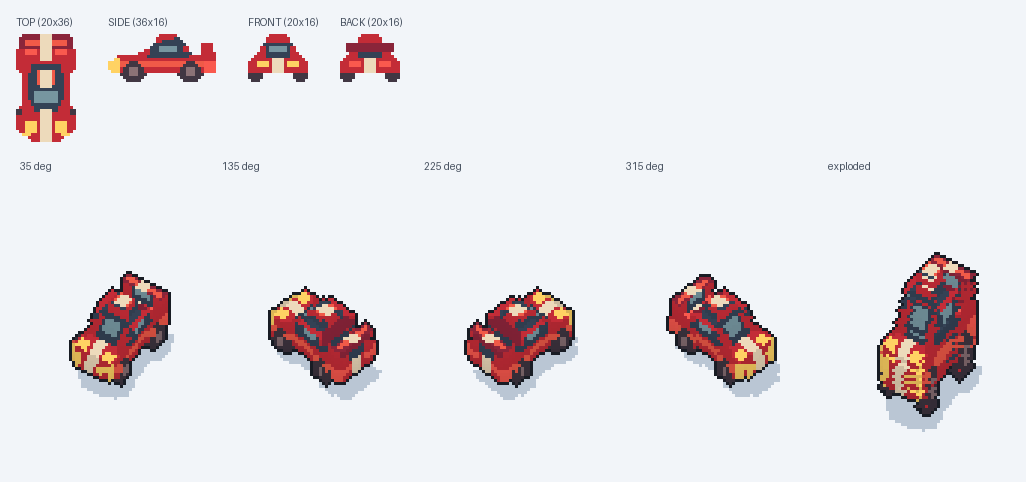
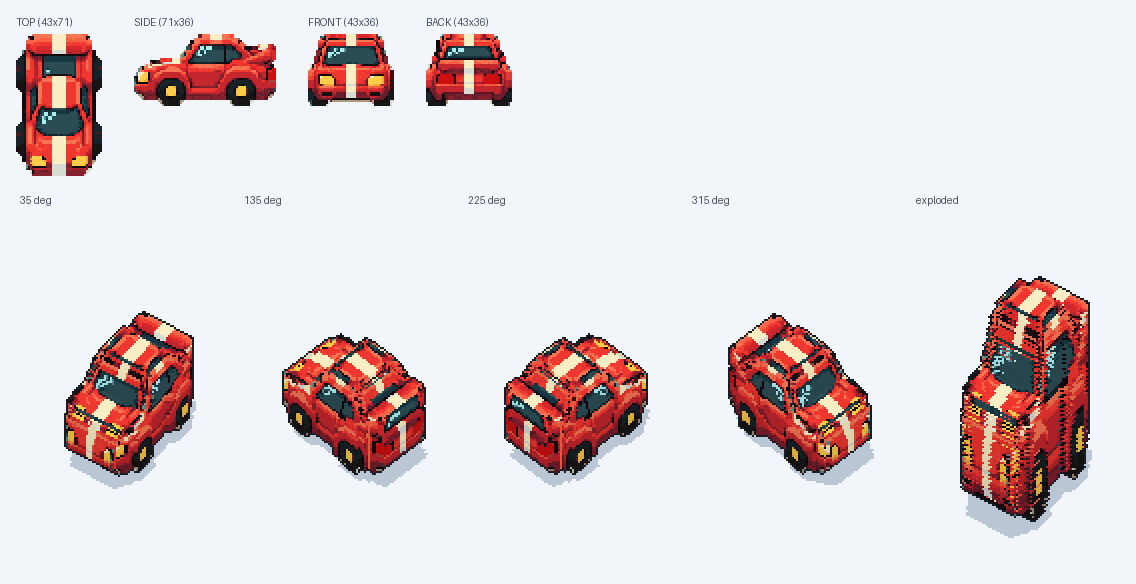
Use Hero Car A with a placeholder fallback

diff --git a/src/render/assets.test.ts b/src/render/assets.test.ts
@@ -1,8 +1,49 @@
-import { describe, expect, it } from 'vitest'
-import { validateEntry, validateStrip } from './assets'
+import { afterEach, describe, expect, it, vi } from 'vitest'
+import { assetIds, loadAssets, validateEntry, validateStrip } from './assets'
 import { carTurn } from './stack'
 
 const entry = { slices: 16, sliceWidth: 20, sliceHeight: 36, source: 'art/placeholders/car.png' }
+
+describe('car loading', () => {
+  afterEach(() => {
+    vi.unstubAllGlobals()
+    vi.restoreAllMocks()
+  })
+
+  it.each(['invalid manifest entry', 'missing strip', 'wrong strip dimensions'])('uses the placeholder for a %s', async failure => {
+    const fallback = { slices: 1, sliceWidth: 1, sliceHeight: 1, source: 'art/placeholders/car.png' }
+    const hero = { ...fallback, source: 'art/handoff/hero_car_a_fourview.png' }
+    const manifest = {
+      ...Object.fromEntries(assetIds.map(id => [id, fallback])),
+      car: failure === 'invalid manifest entry' ? { ...hero, slices: 0 } : hero,
+      car_placeholder: fallback,
+    }
+    const decode = vi.fn(async (src: string) => {
+      if (src.endsWith('/car.png') && failure === 'missing strip') throw new Error('Missing image')
+    })
+    vi.stubGlobal('fetch', async () => Response.json(manifest))
+    vi.stubGlobal('Image', class {
+      src = ''
+      naturalHeight = 1
+      get naturalWidth() { return this.src.endsWith('/car.png') ? 2 : 1 }
+      decode() { return decode(this.src) }
+    })
+    vi.stubGlobal('document', {
+      createElement: () => ({ getContext: () => ({
+        drawImage: vi.fn(),
+        getImageData: () => ({ data: new Uint8ClampedArray([0, 0, 0, 255]) }),
+      }) }),
+    })
+    const warn = vi.spyOn(console, 'warn').mockImplementation(() => {})
+
+    const assets = await loadAssets()
+
+    expect(Object.keys(assets)).toEqual([...assetIds])
+    expect(assets.car).toMatchObject({ ...fallback, footprint: new Uint8Array([1]) })
+    expect(decode).toHaveBeenCalledWith(expect.stringMatching(/\/slices\/car_placeholder\.png$/))
+    expect(warn).toHaveBeenCalledExactlyOnceWith(expect.stringContaining('car_placeholder'), expect.any(Error))
+  })
+})
 
 describe('sprite strips', () => {
   it('accepts a complete manifest entry and its exact strip dimensions', () => {

diff --git a/src/render/assets.ts b/src/render/assets.ts
@@ -12,6 +12,7 @@ export interface StackAsset extends AssetEntry {
 
 export const assetIds = ['car', 'pencil', 'coin', 'ruler', 'mug', 'cereal_box'] as const
 export type AssetId = typeof assetIds[number]
+type StackId = AssetId | 'car_placeholder'
 
 export function validateEntry(id: string, value: unknown): AssetEntry {
   if (!value || typeof value !== 'object') throw new Error(`Missing manifest entry for "${id}"`)
@@ -39,7 +40,7 @@ export function makeCanvas(width: number, height: number) {
   return { canvas, ctx }
 }
 
-async function loadStack(id: AssetId, entry: AssetEntry, base: string): Promise<StackAsset> {
+async function loadStack(id: StackId, entry: AssetEntry, base: string): Promise<StackAsset> {
   const image = new Image()
   image.src = `${base}slices/${id}.png`
   await image.decode()
@@ -70,8 +71,14 @@ export async function loadAssets(): Promise<Record<AssetId, StackAsset>> {
   if (!result.ok) throw new Error(`Asset manifest request returned ${result.status}`)
   const manifest: unknown = await result.json()
   if (!manifest || typeof manifest !== 'object' || Array.isArray(manifest)) throw new Error('Invalid asset manifest')
-  const entries = await Promise.all(assetIds.map(async id => [
-    id, await loadStack(id, validateEntry(id, (manifest as Record<string, unknown>)[id]), base),
-  ] as const))
+  const manifestEntries = manifest as Record<string, unknown>
+  const load = async (id: StackId) => loadStack(id, validateEntry(id, manifestEntries[id]), base)
+  const entries = await Promise.all(assetIds.map(async id => {
+    const asset = id === 'car' ? await load(id).catch(error => {
+      console.warn('Could not load "car". Falling back to "car_placeholder".', error)
+      return load('car_placeholder')
+    }) : await load(id)
+    return [id, asset] as const
+  }))
   return Object.fromEntries(entries) as Record<AssetId, StackAsset>
 }

diff --git a/tools/import_sheet.py b/tools/import_sheet.py
@@ -15,8 +15,13 @@ from generate_placeholders import BG, OUTPUT, generate
 
 ROOT = Path(__file__).resolve().parents[1]
 ASSETS = ROOT / "public/assets"
+MANIFEST = ASSETS / "manifest.json"
 CHECKS = ROOT / "art/checks"
 PRESETS = json.loads((ROOT / "tools/asset_presets.json").read_text())
+
+
+def read_manifest():
+    return json.loads(MANIFEST.read_text()) if MANIFEST.exists() else {}
 
 
 def import_sheet(sheet, asset_id, overrides):
@@ -31,8 +36,7 @@ def import_sheet(sheet, asset_id, overrides):
     if count < 1:
         raise ValueError("--slices must be a positive integer.")
 
-    manifest_path = ASSETS / "manifest.json"
-    manifest = json.loads(manifest_path.read_text()) if manifest_path.exists() else {}
+    manifest = read_manifest()
     source = str(sheet.resolve().relative_to(ROOT)) if sheet.resolve().is_relative_to(ROOT) else sheet.name
     with TemporaryDirectory(dir=ROOT) as temporary:
         folder = Path(temporary)
@@ -69,7 +73,7 @@ def import_sheet(sheet, asset_id, overrides):
         CHECKS.mkdir(parents=True, exist_ok=True)
         strip.replace(ASSETS / "slices" / strip.name)
         preview.replace(CHECKS / preview.name)
-        new_manifest.replace(manifest_path)
+        new_manifest.replace(MANIFEST)
     print(f"{asset_id}: {count} slices of {slice_width} × {height} px")
     for line in output.splitlines():
         if line.startswith("warning:"):
@@ -88,6 +92,7 @@ def main():
     parser.add_argument("--order", choices=["auto", "reading"])
     parser.add_argument("--colours", type=int)
     parser.add_argument("--shade", type=float)
+    parser.add_argument("--bg-tol", type=int, help="Flood-fill background tolerance for opaque sheets.")
     parser.add_argument("--key-background", action="store_true", default=None,
                         help="Treat exactly RGB (250,250,250) as transparent, including enclosed holes.")
     args = parser.parse_args()
@@ -95,9 +100,15 @@ def main():
                  if key not in {"sheet", "asset_id", "all_placeholders"} and value is not None}
     try:
         if args.all_placeholders and not (args.sheet or args.asset_id or overrides):
+            car = read_manifest().get("car")
+            source = car.get("source") if isinstance(car, dict) else None
+            preserve_car = isinstance(source, str) and source.startswith("art/handoff/")
             generate()
             for asset_id in PRESETS:
-                import_sheet(OUTPUT / f"{asset_id}.png", asset_id, {})
+                if asset_id == "car" and preserve_car:
+                    continue
+                sheet_name = "car" if asset_id == "car_placeholder" else asset_id
+                import_sheet(OUTPUT / f"{sheet_name}.png", asset_id, {})
         elif args.sheet and args.asset_id and not args.all_placeholders:
             import_sheet(args.sheet, args.asset_id, overrides)
         else:

diff --git a/art/handoff/README.md b/art/handoff/README.md
@@ -6,11 +6,20 @@ nose points down and the side nose points left. Use a flat near-white or
 transparent background, crisp pixel edges and a 1 px dark outline.
 
 From the repository root, run `npm run slice -- art/handoff/my-car.png car`.
-Use one of `car`, `pencil`, `coin`, `ruler`, `mug` or `cereal_box`.
+Use one of `car`, `car_placeholder`, `pencil`, `coin`, `ruler`, `mug` or `cereal_box`.
 Use `--slices N` to override the default height. Prefer transparent PNGs for
-enclosed holes. For an opaque sheet with exact RGB (250, 250, 250) reserved
-for the background, pass `--key-background`.
+enclosed holes. For opaque sheets, `--bg-tol N` sets the integer color
+tolerance for flood-fill background removal (default 28). For an opaque sheet
+with exact RGB (250, 250, 250) reserved for the background, pass
+`--key-background`.
 
-Review the output in `art/checks/` and reload the game. To restore all six
-original placeholders, run `npm run slice:all`. The importer requires
-Python 3 with Pillow and NumPy.
+Review the output in `art/checks/` and reload the game. If the `car` entry in
+`public/assets/manifest.json` or its slice strip fails to load or validate, the
+game logs a warning and uses the `car_placeholder` entry and
+`public/assets/slices/car_placeholder.png`.
+
+`npm run slice:all` regenerates the placeholder props and `car_placeholder`.
+It also regenerates `car` when its source is outside `art/handoff/` or missing.
+To explicitly restore the placeholder as the primary car, run
+`npm run slice -- art/placeholders/car.png car`. The importer requires Python 3
+with Pillow and NumPy.

diff --git a/CHANGELOG.md b/CHANGELOG.md
@@ -1,5 +1,11 @@
 # Changelog
 
+## Unreleased
+
+- Swapped in Artist's Hero Car A as the default car with 36 slices at 43 × 71 px each.
+- Added a runtime fallback to the original placeholder car when the primary car fails to load or validate.
+- Preserved handoff cars during bulk placeholder regeneration and exposed `--bg-tol` for opaque sheets.
+
 ## 0.1.0 — Phase 1
 
 - Added six original orthographic placeholder sheets, carved sprite strips, and visual check sheets.
